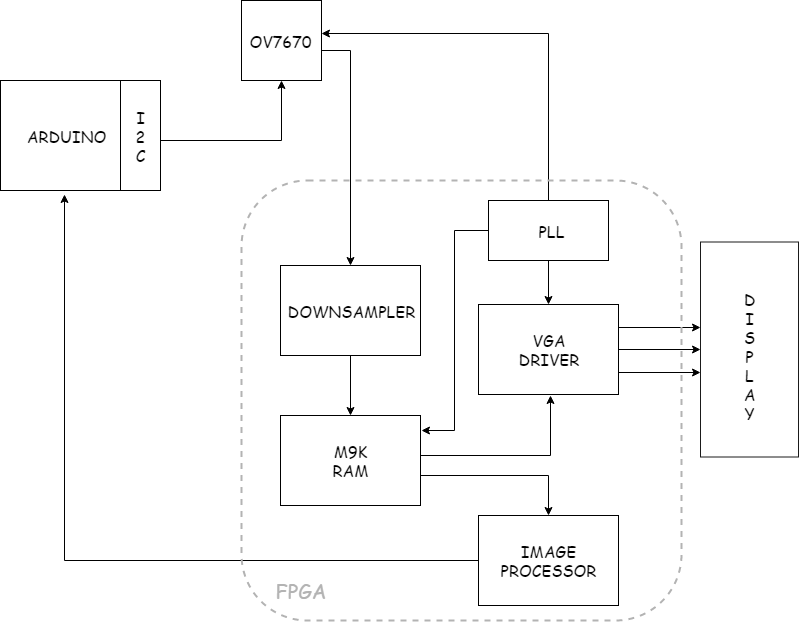
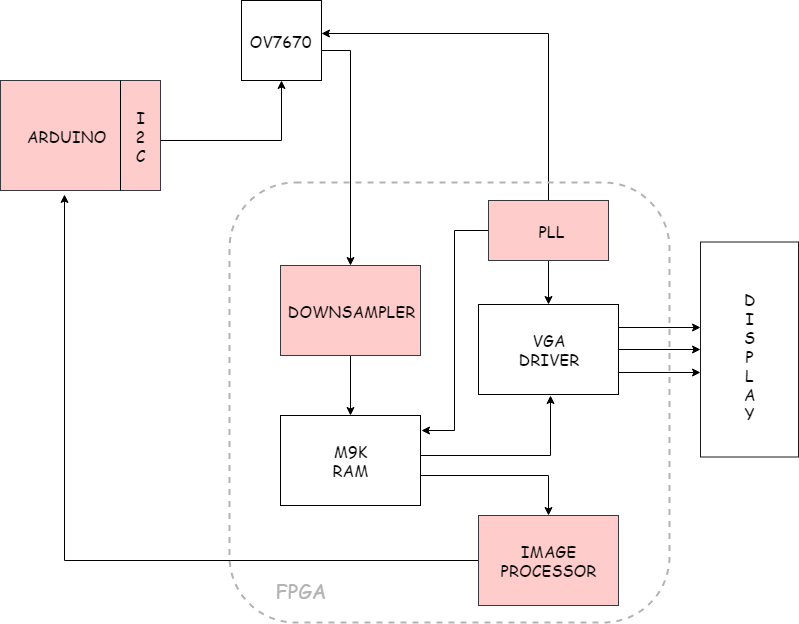
prelab work

diff --git a/Writeups/Lab Info/Lab Doc.md b/Writeups/Lab Info/Lab Doc.md
@@ -2,7 +2,7 @@
 
 In this lab, you will split into two teams to develop an FPGA module capable of detecting basic shapes from a camera input. This device will be mounted on the robot to identify these shapes on the walls of the maze.
 
-Below is a block diagram of the device that will implemented.   
+Below is a block diagram of the device that will implemented. The red blocks, along with all of the interconnects will be made by you, the white ones are provided.    
 
 ![BLOCK DIAGRAM](Lab3BlockDiagram.png "Block, Lock, and Drop it")
 
@@ -76,15 +76,17 @@ Take a look at the timing diagrams (Fig 5 and 6) on Page 7 (Ignore HSYNC, we don
 
 ## Lab
 
-PLL
+To begin, collect an OV7670 camera and a DE0-Nano FPGA for your team. You will need to split into two teams to complete this lab, so decide which members will go into each. Team Camera will be working on setting up the OV7670 camera with the Arduino. Team FPGA will work on creating a downsampler in Verilog, and writing an image to the VGA display. Once *both* teams are done, work to combine the two and display the camera's image to the display. Once a subteam is done with their task. they may begin implementing their image processor in Verilog.
 
-Team Camera
+### PLL
 
-Team Buffer Reader
+### Team Camera
+
+### Team Buffer Reader
 Notice that the OV7670 outputs 1 pixel of data over two clock cycles, outputting 8 bits of a pixel at a time throught D7 - D1. Missing just one of these cycles will lose some information, so you must determine when to sample, update wri
 Combining
 
-Image Processing
+### Image Processing
 
 
 
